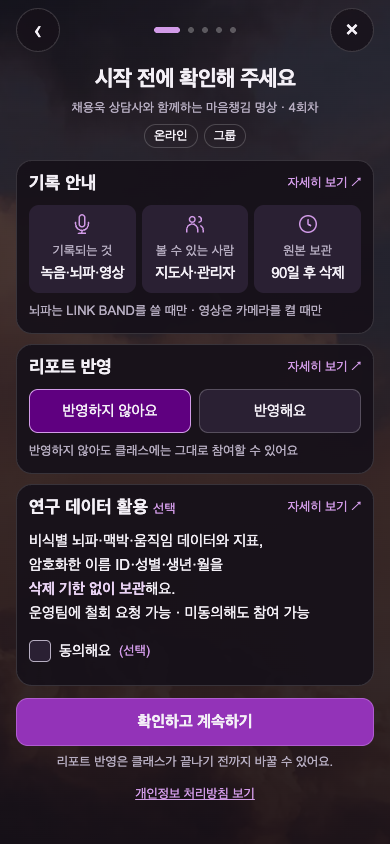
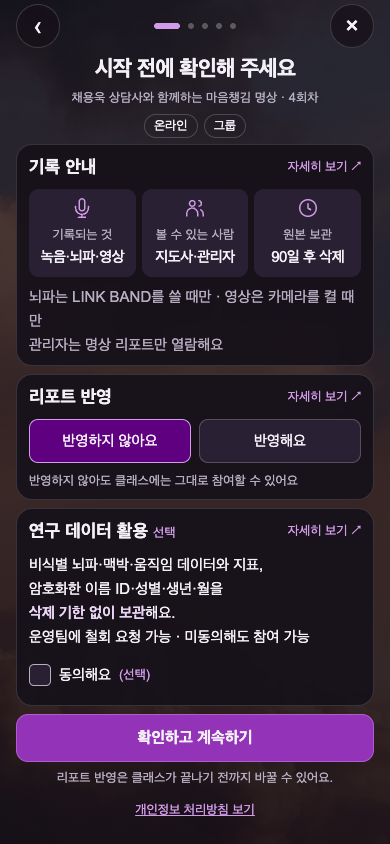
docs: 모바일 높이와 고지 보존 검증 및 크롬 시안 캡처

diff --git a/designs/entry-notice-summary/assets/design.js b/designs/entry-notice-summary/assets/design.js
@@ -4,18 +4,19 @@ const ps=(items)=>items.map(x=>`<p>${x}</p>`).join('');
 const recording=['녹음과 AI 기록','음성을 녹음하고 AI가 기록지를 만들어요','뇌파 측정(LINK BAND를 쓸 때만)','영상(카메라를 켤 때만)'];
 const sheetContent={
  record:{title:'기록과 열람 안내',body:`<h3>기록되는 것</h3>${ps(recording)}<h3>볼 수 있는 사람</h3>${ps(COPY.access)}<h3>보관 기간</h3><p>${COPY.retention}</p>`},
- report:{title:'리포트 반영 안내',body:`<h3>내 기록을 리포트에 반영할까요?</h3>${ps(COPY.report)}<p id="sheet-confirm"></p><h3>선택을 바꾸려면</h3><p>리포트 반영은 클래스가 끝나기 전까지 바꿀 수 있어요.</p>`},
+ report:{title:'리포트 반영 안내',body:`<h3>내 기록을 리포트에 반영할까요?</h3>${ps(COPY.report)}<p>고르지 않으면 반영하지 않는 것으로 진행돼요</p><p id="sheet-confirm"></p><h3>선택을 바꾸려면</h3><p>리포트 반영은 클래스가 끝나기 전까지 바꿀 수 있어요.</p>`},
  research:{title:'연구 목적 데이터 활용',body:`<p class="notice">연구 목적 데이터 활용에 동의할까요? (선택)</p><h3>활용 데이터와 보관 기간</h3>${ps(COPY.research.slice(0,2))}<h3>참여와 철회</h3>${ps(COPY.research.slice(2,4))}<h3>비식별 처리의 한계</h3>${ps(COPY.research.slice(4))}`},
  privacy:{title:'개인정보 처리방침 보기',body:'<p>디자인 시안에서는 외부 페이지로 이동하지 않아요. 제품에서는 기존 개인정보 처리방침 링크(/privacy)를 그대로 사용해요.</p>'}
 };
-function review(){document.querySelector('#app').innerHTML=`<main class="review"><div class="eyebrow">MIND BREEZE · DESIGN REVIEW · 2026.10.22</div><h1>입장 전, 한눈에 이해하고<br>내 기록은 내가 선택하도록.</h1><p class="intro">전체 고지는 상세 시트에 그대로. 선택에 필요한 핵심은 화면에 남깁니다.<br>현재 화면과 두 가지 방향을 같은 390 × 844 크기로 비교해 보세요.</p><nav><a href="?view=a">A · 아이콘 타일</a><a href="?view=b">B · 체크리스트</a><a href="?view=a&sheet=research">연구 동의 시트</a><a href="?view=a&sheet=record">기록 안내 시트</a><a href="?view=a&sheet=report">리포트 시트</a><a href="current.html">현재 화면</a></nav><section class="comparison"><article><h2>현재 · 전체 고지 노출</h2><p>실제 컴포넌트 · 작은 본문과 긴 읽기 흐름</p><div class="framebox"><iframe title="현재 화면 390" src="current.html"></iframe></div></article><article><h2>A · 아이콘 타일 <span class="optional">추천</span></h2><p>기록 / 열람 / 보관을 세 덩어리로 빠르게 파악</p><div class="framebox"><iframe title="A안 390" src="?view=a"></iframe></div></article><article><h2>B · 체크리스트</h2><p>위에서 아래로 차분하게 읽는 안내 목록</p><div class="framebox"><iframe title="B안 390" src="?view=b"></iframe></div></article></section><p class="sample">시연 데이터 · 채용욱 상담사 / 마음챙김 명상 · 4회차 / 원본 90일. 운영 데이터 조회 없음. 각 프레임은 개별 스크롤·선택·시트 조작이 가능합니다.</p><section><h2>상세 시트 · 원문 그대로, 본문 16px</h2><div class="comparison"><div class="framebox"><iframe title="기록 시트" src="?view=a&sheet=record"></iframe></div><div class="framebox"><iframe title="리포트 시트" src="?view=a&sheet=report"></iframe></div><div class="framebox"><iframe title="연구 시트" src="?view=a&sheet=research"></iframe></div></div></section><section><h2>데스크톱 화면</h2><p class="intro">위의 A/B 링크를 새 창에서 열면 창 너비에 맞춰 배치됩니다. 1440px 캡처는 screenshots/에 있습니다.</p></section></main>`}
+function review(){document.querySelector('#app').innerHTML=`<main class="review"><div class="eyebrow">MIND BREEZE · DESIGN REVIEW · 2026.10.22</div><h1>입장 전, 한눈에 이해하고<br>내 기록은 내가 선택하도록.</h1><p class="intro">전체 고지는 상세 시트에 그대로. 선택에 필요한 핵심은 화면에 남깁니다.<br>현재 화면과 두 가지 방향을 같은 390 × 844 크기로 비교해 보세요.</p><nav><a href="?view=a">A · 아이콘 타일</a><a href="?view=b">B · 체크리스트</a><a href="?view=a&sheet=research">연구 동의 시트</a><a href="?view=a&sheet=record">기록 안내 시트</a><a href="?view=a&sheet=report">리포트 시트</a><a href="current.html">현재 화면</a></nav><section class="comparison"><article><h2>현재 · 전체 고지 노출</h2><p>실제 컴포넌트 · 작은 본문과 긴 읽기 흐름</p><div class="framebox"><iframe title="현재 화면 390" src="current.html"></iframe></div></article><article><h2>A · 아이콘 타일 <span class="optional">추천</span></h2><p>기록 / 열람 / 보관을 세 덩어리로 빠르게 파악</p><div class="framebox"><iframe title="A안 390" src="?view=a"></iframe></div></article><article><h2>B · 체크리스트</h2><p>위에서 아래로 차분하게 읽는 안내 목록</p><div class="framebox"><iframe title="B안 390" src="?view=b"></iframe></div></article></section><p class="sample">시연 데이터 · 채용욱 상담사 / 마음챙김 명상 · 4회차 / 원본 90일. 운영 데이터 조회 없음. 각 프레임은 개별 스크롤·선택·시트 조작이 가능합니다.</p><section><h2>상세 시트 · 원문 그대로, 본문 16px</h2><div class="comparison"><div class="framebox"><iframe title="기록 시트" src="?view=a&sheet=record"></iframe></div><div class="framebox"><iframe title="리포트 시트" src="?view=a&sheet=report"></iframe></div><div class="framebox"><iframe title="연구 시트" src="?view=a&sheet=research"></iframe></div></div></section><section><h2>데스크톱 화면</h2><p class="intro">실제 1440 × 900 캡처 비교. 이미지를 누르면 원본 크기로 볼 수 있습니다.</p><div class="desktop-comparison"><figure><figcaption>현재</figcaption><a href="screenshots/current-1440.png"><img src="screenshots/current-1440.png" alt="현재 1440px 화면"></a></figure><figure><figcaption>A · 아이콘 타일</figcaption><a href="screenshots/a-1440.png"><img src="screenshots/a-1440.png" alt="A · 아이콘 타일 1440px 화면"></a></figure><figure><figcaption>B · 체크리스트</figcaption><a href="screenshots/b-1440.png"><img src="screenshots/b-1440.png" alt="B · 체크리스트 1440px 화면"></a></figure></div></section></main>`}
 function screen(){const rows=[['record','기록되는 것','녹음·뇌파·영상'],['people','볼 수 있는 사람','지도사·관리자'],['time','원본 보관','90일 후 삭제']];
- document.querySelector('#app').innerHTML=`<div class="screen ${variant}"><div class="wrap"><header class="top"><button class="round demo" aria-label="이전">‹</button><div class="steps" aria-label="5단계 중 1단계"><i></i><i></i><i></i><i></i><i></i></div><button class="round demo" aria-label="나가기">×</button></header><main><div class="heading"><h1>시작 전에 확인해 주세요</h1><p>채용욱 상담사와 함께하는 마음챙김 명상 · 4회차</p><div class="chips"><span>온라인</span><span>그룹</span></div></div><div class="cards"><section class="card record-card"><div class="cardhead"><h2>기록 안내</h2><button class="detail" data-sheet="record" aria-label="기록 안내 자세히 보기">자세히 보기 ↗</button></div><div class="${variant==='a'?'tiles':'checklist'}">${rows.map(([i,t,v])=>`<div class="${variant==='a'?'tile':'checkrow'}">${icon(i)}<small>${t}</small><strong>${v}</strong></div>`).join('')}</div><p class="conditions">뇌파는 LINK BAND를 쓸 때만 · 영상은 카메라를 켤 때만</p></section><section class="card report-card"><div class="cardhead"><h2>리포트 반영</h2><button class="detail" data-sheet="report" aria-label="리포트 반영 자세히 보기">자세히 보기 ↗</button></div><div class="segment" role="radiogroup" aria-label="내 기록을 리포트에 반영할까요?"><button role="radio" aria-checked="true" data-choice="excluded">반영하지 않아요</button><button role="radio" aria-checked="false" data-choice="included">반영해요</button></div><p class="report-note" id="report-note">반영하지 않아도 클래스에는 그대로 참여할 수 있어요</p></section><section class="card research-card"><div class="cardhead"><h2>연구 데이터 활용 <span class="optional">선택</span></h2><button class="detail" data-sheet="research" aria-label="연구 데이터 활용 자세히 보기">자세히 보기 ↗</button></div><p class="research-copy">비식별 뇌파·맥박·움직임 데이터와 지표,<br>암호화한 이름 ID·성별·생년·월을<br><strong>삭제 기한 없이 보관</strong>해요.<br>운영팀에 철회 요청 가능 · 미동의해도 참여 가능</p><div class="research-actions"><label class="check"><input id="consent" type="checkbox">동의해요 <span class="optional">(선택)</span></label></div></section></div></main><footer class="foot"><button class="primary demo" id="continue">확인하고 계속하기</button><p>리포트 반영은 클래스가 끝나기 전까지 바꿀 수 있어요.</p><a class="privacy" href="#privacy" data-sheet="privacy">개인정보 처리방침 보기</a></footer></div></div><dialog aria-labelledby="sheet-title"><div class="handle"></div><header class="sheethead"><h2 id="sheet-title"></h2><button class="round" id="close" aria-label="닫기">×</button></header><div class="sheetbody"></div><footer class="sheetfoot"><button class="primary" id="read">확인했어요</button></footer></dialog>`;
+ document.querySelector('#app').innerHTML=`<div class="screen ${variant}"><div class="wrap"><header class="top"><button class="round demo" aria-label="이전">‹</button><div class="steps" aria-label="5단계 중 1단계"><i></i><i></i><i></i><i></i><i></i></div><button class="round demo" aria-label="나가기">×</button></header><main><div class="heading"><h1>시작 전에 확인해 주세요</h1><p>채용욱 상담사와 함께하는 마음챙김 명상 · 4회차</p><div class="chips"><span>온라인</span><span>그룹</span></div></div><div class="cards"><section class="card record-card"><div class="cardhead"><h2>기록 안내</h2><button class="detail" data-sheet="record" aria-label="기록 안내 자세히 보기">자세히 보기 ↗</button></div><div class="${variant==='a'?'tiles':'checklist'}">${rows.map(([i,t,v])=>`<div class="${variant==='a'?'tile':'checkrow'}">${icon(i)}<small>${t}</small><strong>${v}</strong></div>`).join('')}</div><p class="conditions">뇌파는 LINK BAND를 쓸 때만 · 영상은 카메라를 켤 때만<br>관리자는 명상 리포트만 열람해요</p></section><section class="card report-card"><div class="cardhead"><h2>리포트 반영</h2><button class="detail" data-sheet="report" aria-label="리포트 반영 자세히 보기">자세히 보기 ↗</button></div><div class="segment" role="radiogroup" aria-label="내 기록을 리포트에 반영할까요?"><button role="radio" aria-checked="true" data-choice="excluded">반영하지 않아요</button><button role="radio" aria-checked="false" data-choice="included">반영해요</button></div><p class="report-note" id="report-note">반영하지 않아도 클래스에는 그대로 참여할 수 있어요</p></section><section class="card research-card"><div class="cardhead"><h2>연구 데이터 활용 <span class="optional">선택</span></h2><button class="detail" data-sheet="research" aria-label="연구 데이터 활용 자세히 보기">자세히 보기 ↗</button></div><p class="research-copy">비식별 뇌파·맥박·움직임 데이터와 지표,<br>암호화한 이름 ID·성별·생년·월을<br><strong>삭제 기한 없이 보관</strong>해요.<br>운영팀에 철회 요청 가능 · 미동의해도 참여 가능</p><div class="research-actions"><label class="check"><input id="consent" type="checkbox">동의해요 <span class="optional">(선택)</span></label></div></section></div></main><footer class="foot"><button class="primary demo" id="continue">확인하고 계속하기</button><p>리포트 반영은 클래스가 끝나기 전까지 바꿀 수 있어요.</p><a class="privacy" href="#privacy" data-sheet="privacy">개인정보 처리방침 보기</a></footer></div></div><dialog aria-labelledby="sheet-title"><div class="handle"></div><header class="sheethead"><h2 id="sheet-title"></h2><button class="round" id="close" aria-label="닫기">×</button></header><div class="sheetbody"></div><footer class="sheetfoot"><button class="primary" id="read">확인했어요</button></footer></dialog>`;
  const dialog=document.querySelector('dialog');let choice='excluded';
  function openSheet(key){const data=sheetContent[key];document.querySelector('#sheet-title').textContent=data.title;document.querySelector('.sheetbody').innerHTML=data.body;const confirm=document.querySelector('#sheet-confirm');if(confirm)confirm.textContent=choice==='included'?'이번 클래스의 내 기록이 리포트에 반영돼요':'';dialog.showModal();document.querySelector('.sheetbody').scrollTop=0;document.querySelector('#close').focus()}
  document.querySelectorAll('[data-sheet]').forEach(b=>b.addEventListener('click',e=>{e.preventDefault();openSheet(b.dataset.sheet)}));
  ['close','read'].forEach(id=>document.getElementById(id).onclick=()=>dialog.close());
  document.querySelectorAll('[data-choice]').forEach(b=>b.onclick=()=>{choice=b.dataset.choice;document.querySelectorAll('[data-choice]').forEach(x=>x.setAttribute('aria-checked',String(x===b)));document.querySelector('#report-note').textContent=choice==='included'?'이번 클래스의 내 기록이 리포트에 반영돼요':COPY.report[0]});
+ document.querySelector('.segment').addEventListener('keydown',e=>{if(['ArrowLeft','ArrowRight','ArrowUp','ArrowDown'].includes(e.key)){e.preventDefault();const other=document.querySelector('[data-choice="'+(choice==='included'?'excluded':'included')+'"]');other.click();other.focus()}});
  document.querySelectorAll('.demo').forEach(b=>b.onclick=()=>{const t=document.createElement('div');t.className='toast';t.setAttribute('role','status');t.textContent='디자인 시안이에요. 실제 입장·저장은 하지 않아요.';document.body.append(t);setTimeout(()=>t.remove(),2600)});
  if(sheetContent[params.get('sheet')])openSheet(params.get('sheet'));
 }

diff --git a/designs/entry-notice-summary/assets/design.css b/designs/entry-notice-summary/assets/design.css
@@ -1,1 +1,7 @@
 :root{color-scheme:dark;--bg:#0e0a12;--card:#161019;--hi:#f4f0f7;--mid:#b7aec2;--accent:#d29be8}*{box-sizing:border-box}body{margin:0;background:var(--bg);color:var(--hi);font-family:Arial,'Apple SD Gothic Neo',sans-serif;font-size:15px;line-height:24px}button,a,input{font:inherit}button,a{touch-action:manipulation}button{cursor:pointer;color:inherit}button{border:0}a{color:var(--accent)}h1,h2,h3,p{margin:0}button:focus-visible,a:focus-visible,input:focus-visible{outline:3px solid var(--accent);outline-offset:3px}.screen{min-height:100dvh;background:linear-gradient(#0e0a12a6,#0e0a12df),url('background.webp') center/cover fixed;padding:8px 16px 12px}.wrap{max-width:880px;margin:auto}.top{height:44px;display:flex;justify-content:space-between;align-items:center}.round{width:44px;height:44px;border:1px solid #ffffff28;background:#161019cf;border-radius:50%;font-size:24px}.steps{display:flex;gap:8px}.steps i{width:6px;height:6px;border-radius:9px;background:#ffffff45}.steps i:first-child{width:26px;background:var(--accent)}.heading{margin:12px 0;text-align:center}.heading h1{font-size:22px;line-height:30px;letter-spacing:-.6px}.heading p{font-size:13px;line-height:20px;color:var(--mid);margin-top:4px}.chips{display:flex;gap:6px;justify-content:center;margin-top:6px}.chips span{font-size:13px;line-height:20px;padding:1px 9px;border:1px solid #ffffff30;border-radius:20px}.cards{display:grid;gap:10px}.card{border:1px solid #ffffff24;background:#161019ed;border-radius:16px;padding:0 12px 12px}.cardhead{display:flex;align-items:center;justify-content:space-between;min-height:44px;gap:4px}.cardhead h2{font-size:18px;line-height:27px}.detail{background:none;color:var(--accent);font-size:13px;line-height:20px;min-height:44px;min-width:72px;padding:0 0 0 8px;white-space:nowrap}.tiles{display:grid;grid-template-columns:repeat(3,1fr);gap:6px}.tile{padding:8px 2px;border-radius:10px;text-align:center;background:#2a2033}.icon{height:24px;color:var(--accent);display:flex;justify-content:center;margin-bottom:4px}.icon svg{width:22px;height:22px}.tile small{display:block;font-size:13px;line-height:20px;color:var(--mid)}.tile strong{font-size:15px;line-height:24px;display:block;font-weight:500;letter-spacing:-.5px}.conditions{font-size:13px;line-height:20px;color:var(--mid);margin-top:8px}.segment{display:grid;grid-template-columns:1fr 1fr;gap:8px}.segment button{border:1px solid #ffffff35;border-radius:9px;background:#2a2033;min-height:44px;font-size:15px}.segment button[aria-checked=true]{background:#5f0080;border-color:#d29be8}.report-note{font-size:13px;line-height:20px;color:var(--mid);margin-top:8px}.research-copy{font-size:15px;line-height:24px}.research-copy strong{font-weight:600;color:#ead4f4}.research-actions{display:flex;align-items:center;justify-content:space-between;margin-top:4px}.check{display:flex;align-items:center;gap:8px;min-height:44px;cursor:pointer;font-size:15px}.check input{appearance:none;flex-shrink:0;width:22px;height:22px;border:1px solid #b7aec2;border-radius:5px;background:#2a2033;margin:0}.check input:checked{background:#9333b8;border-color:#d29be8}.check input:checked:after{content:'✓';display:block;text-align:center;color:white;line-height:20px}.optional{font-size:13px;line-height:20px;color:var(--accent);font-weight:400}.foot{padding-top:12px;text-align:center}.primary{min-height:48px;width:100%;background:#9333b8;border:1px solid #b05cd0;border-radius:12px;font-size:16px;font-weight:700}.foot p{font-size:13px;line-height:20px;margin-top:6px;color:var(--mid)}.privacy{display:inline-flex;align-items:center;justify-content:center;min-height:44px;font-size:13px}.checklist{display:grid;gap:0}.checkrow{display:flex;align-items:center;gap:10px;min-height:40px;border-bottom:1px solid #ffffff12}.checkrow:last-child{border:0}.checkrow .icon{margin:0;justify-content:start}.checkrow small{color:var(--mid);font-size:13px;width:76px;flex-shrink:0}.checkrow strong{font-weight:500;font-size:15px}.b .conditions{margin-top:4px}dialog{color:var(--hi);background:#241b2e;border:1px solid #ffffff25;border-radius:24px 24px 0 0;padding:0;width:min(100%,640px);max-width:100%;max-height:85dvh;margin:auto auto 0;box-shadow:0 -12px 70px #0008}dialog::backdrop{background:#08060ccc}.handle{width:32px;height:4px;border-radius:4px;background:#7c7388;margin:10px auto 0}.sheethead{padding:8px 20px;display:flex;align-items:center;justify-content:space-between;border-bottom:1px solid #ffffff20}.sheethead h2{font-size:22px;line-height:30px}.sheetbody{padding:20px;overflow:auto;max-height:calc(85dvh - 160px);font-size:16px;line-height:26px}.sheetbody h3{font-size:18px;line-height:27px;margin:22px 0 10px;color:#ead4f4}.sheetbody h3:first-child{margin-top:0}.sheetbody p+p{margin-top:16px}.sheetfoot{padding:12px 20px 20px;border-top:1px solid #ffffff20}.sheetbody .notice{padding:12px;background:#35263f;border-radius:10px}.review{max-width:1320px;padding:40px 24px;margin:auto}.eyebrow{font-size:13px;color:var(--accent);letter-spacing:2px}.review h1{font-size:36px;line-height:48px;margin:12px 0}.intro{color:var(--mid);max-width:760px}.review nav{display:flex;flex-wrap:wrap;gap:8px;margin:24px 0}.review nav a{border:1px solid #4e3c5b;border-radius:24px;padding:10px 16px;min-height:44px;text-decoration:none}.comparison{display:grid;grid-template-columns:repeat(3,1fr);gap:24px}.comparison h2{font-size:20px;margin-bottom:8px}.comparison p{font-size:13px;line-height:20px;color:var(--mid);margin-bottom:16px}.framebox{width:100%;overflow:auto;border-radius:20px;border:1px solid #4e3c5b;background:black}.framebox iframe{width:390px;height:844px;display:block;border:0}.review section+section{margin-top:40px}.wideframe{width:100%;height:900px;border:1px solid #4e3c5b;border-radius:16px}.sample{font-size:13px;color:var(--mid);margin-top:20px}.toast{position:fixed;bottom:20px;left:50%;transform:translateX(-50%);background:#f4f0f7;color:#161019;padding:12px 20px;border-radius:12px;z-index:20;width:max-content;max-width:90%}@media(min-width:768px){.screen{padding:24px 40px}.heading{margin:30px 0}.heading h1{font-size:32px;line-height:42px}.heading p{font-size:15px;line-height:24px}.cards{grid-template-columns:1fr 1fr;gap:16px}.record-card{grid-column:1/-1}.card{padding:8px 20px 20px}.tiles{gap:12px}.tile{padding:16px}.tile .icon{margin-bottom:8px}.conditions{text-align:center;font-size:15px;line-height:24px}.cardhead{margin-bottom:8px}.research-copy{font-size:16px;line-height:26px}.foot{max-width:440px;margin:24px auto 0}.checkrow{min-height:44px}.b .checklist{grid-template-columns:repeat(3,1fr);gap:24px}.b .checkrow{border:0;flex-wrap:wrap;gap:8px}.b .checkrow strong{width:100%;padding-left:30px}}@media(max-width:1000px){.comparison{grid-template-columns:1fr}.review{padding:24px 16px}.framebox{max-width:392px}.review h1{font-size:28px;line-height:36px}}@media(prefers-reduced-motion:reduce){*{scroll-behavior:auto}}
+/* 조건부 수집 안내도 핵심 본문이므로 15/24를 보장한다. */
+@media(max-width:767px){.conditions{font-size:15px;line-height:24px}.b .checkrow{min-height:32px}.b .heading{margin:10px 0}}
+@media(max-width:767px){.screen{padding-top:4px;padding-bottom:8px}.heading,.b .heading{margin:6px 0}.cards{gap:8px}.card{padding-bottom:8px}.foot{padding-top:8px}}
+@media(max-width:767px){.checkrow small{width:96px}}
+@media(min-width:768px){.foot{margin-top:16px}}
+.desktop-comparison{display:grid;grid-template-columns:repeat(3,1fr);gap:16px;margin-top:20px}.desktop-comparison figure{margin:0}.desktop-comparison img{display:block;width:100%;border:1px solid #4e3c5b;border-radius:12px}.desktop-comparison figcaption{margin-bottom:8px}@media(max-width:767px){.desktop-comparison{grid-template-columns:1fr}}
